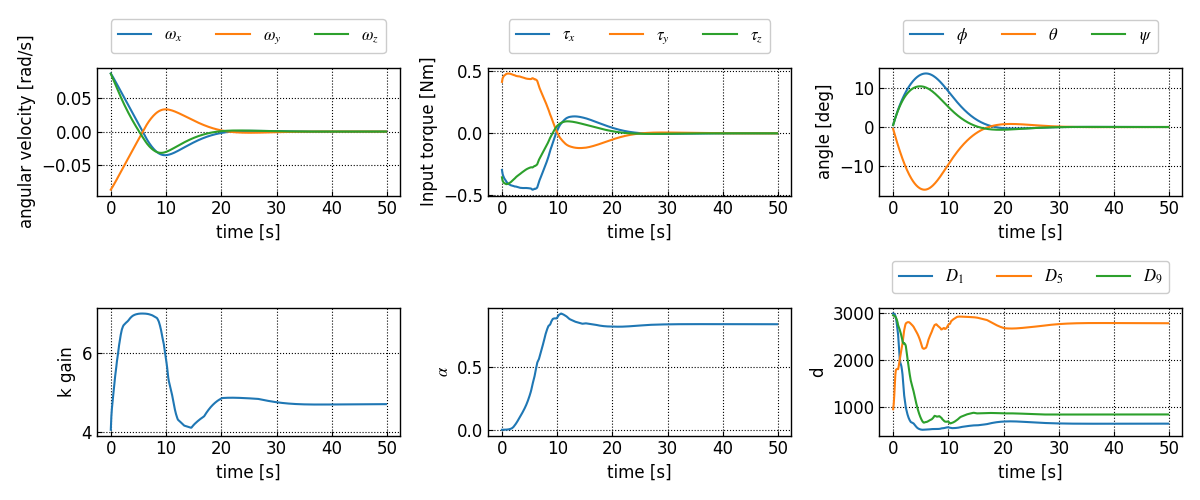
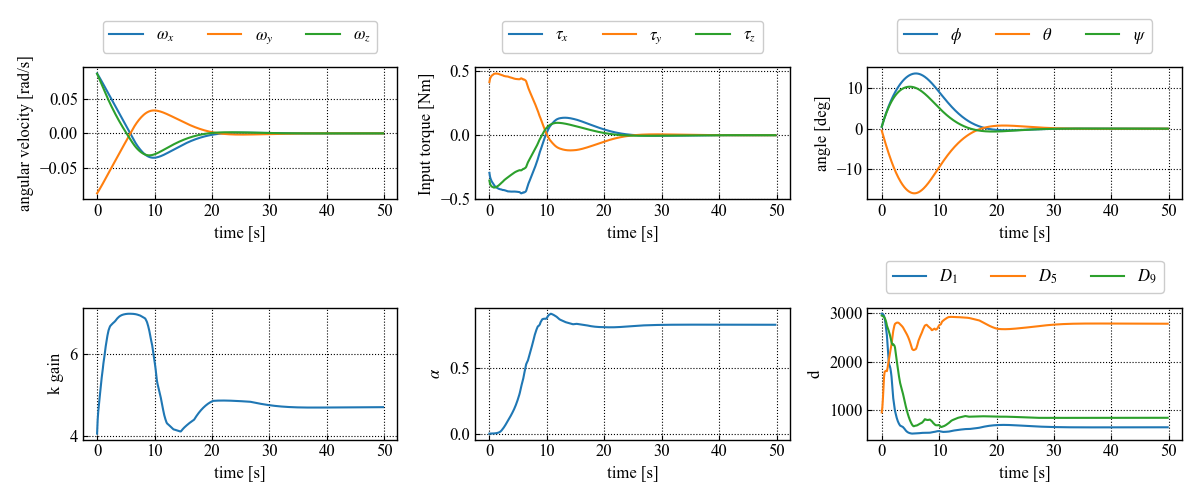
UPDATE: ramdom multi

diff --git a/sac/environment.py b/sac/environment.py
@@ -313,7 +313,7 @@ class SatelliteContinuousEnv(gym.Env):
         self.inertia = np.array([[2.683, 0.0, 0.0], \
                                 [0.0, 2.683, 0.0], \
                                 [0.0, 0.0, 1.897]])
-        self.multi = 10#np.random.randint(100,self.max_multi*100)/100
+        self.multi = np.random.randint(100,self.max_multi*100)/100
         self.tg_inertia = self.inertia*self.multi
         self.est_th = self.inertia.flatten()*self.multi/25#np.diag(self.inertia)
         # self.est_th = (self.multi*np.diag(self.inertia))/((self.max_multi+1)*np.diag(self.inertia))
